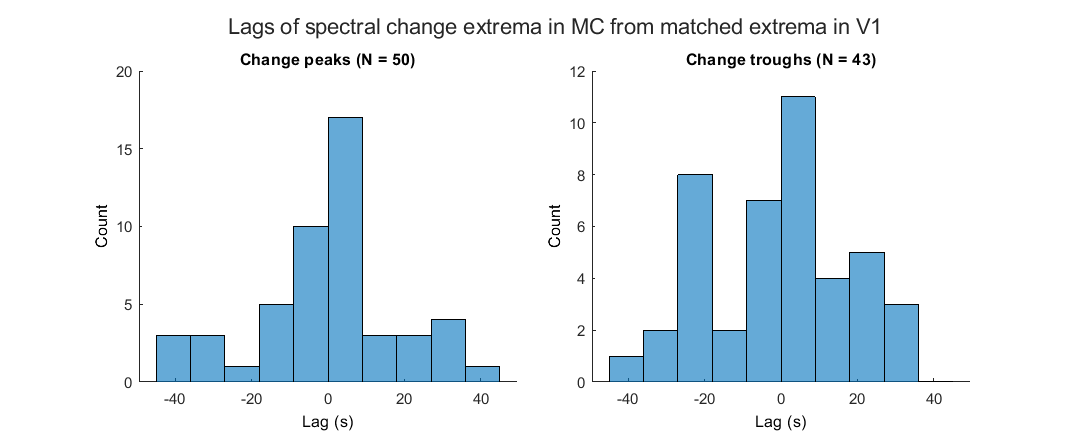
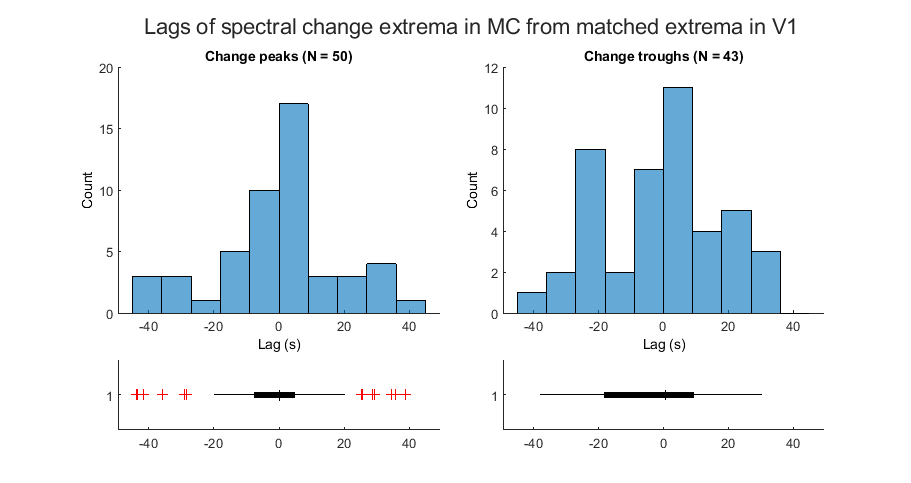
Add boxplot

diff --git a/change_extrema_comp.m b/change_extrema_comp.m
@@ -35,18 +35,29 @@ peak_diffs = -diff(all_matched_peaks);
 trough_diffs = -diff(all_matched_troughs);
 
 figure;
-t = tiledlayout(1, 2, 'TileSpacing', 'compact');
+t = tiledlayout(7, 2, 'TileSpacing', 'compact');
 title(t, 'Lags of spectral change extrema in MC from matched extrema in V1');
 
-nexttile;
+h1 = nexttile([5, 1]);
 histogram(peak_diffs, 10, 'BinLimits', [-45, 45]);
 xlabel('Lag (s)');
 ylabel('Count');
 title(sprintf('Change peaks (N = %d)', length(peak_diffs)));
 
-nexttile;
+h2 = nexttile([5, 1]);
 histogram(trough_diffs, 10, 'BinLimits', [-45, 45]);
 xlabel('Lag (s)');
 ylabel('Count');
 title(sprintf('Change troughs (N = %d)', length(trough_diffs)));
+
+h3 = nexttile([2, 1]);
+boxplot(peak_diffs, 'Orientation', 'horizontal', 'BoxStyle', 'filled', 'Colors', 'k');
+box off;
+
+h4 = nexttile([2, 1]);
+boxplot(trough_diffs, 'Orientation', 'horizontal', 'BoxStyle', 'filled', 'Colors', 'k');
+box off;
+
+linkaxes([h1, h3], 'x');
+linkaxes([h2, h4], 'x');
 
